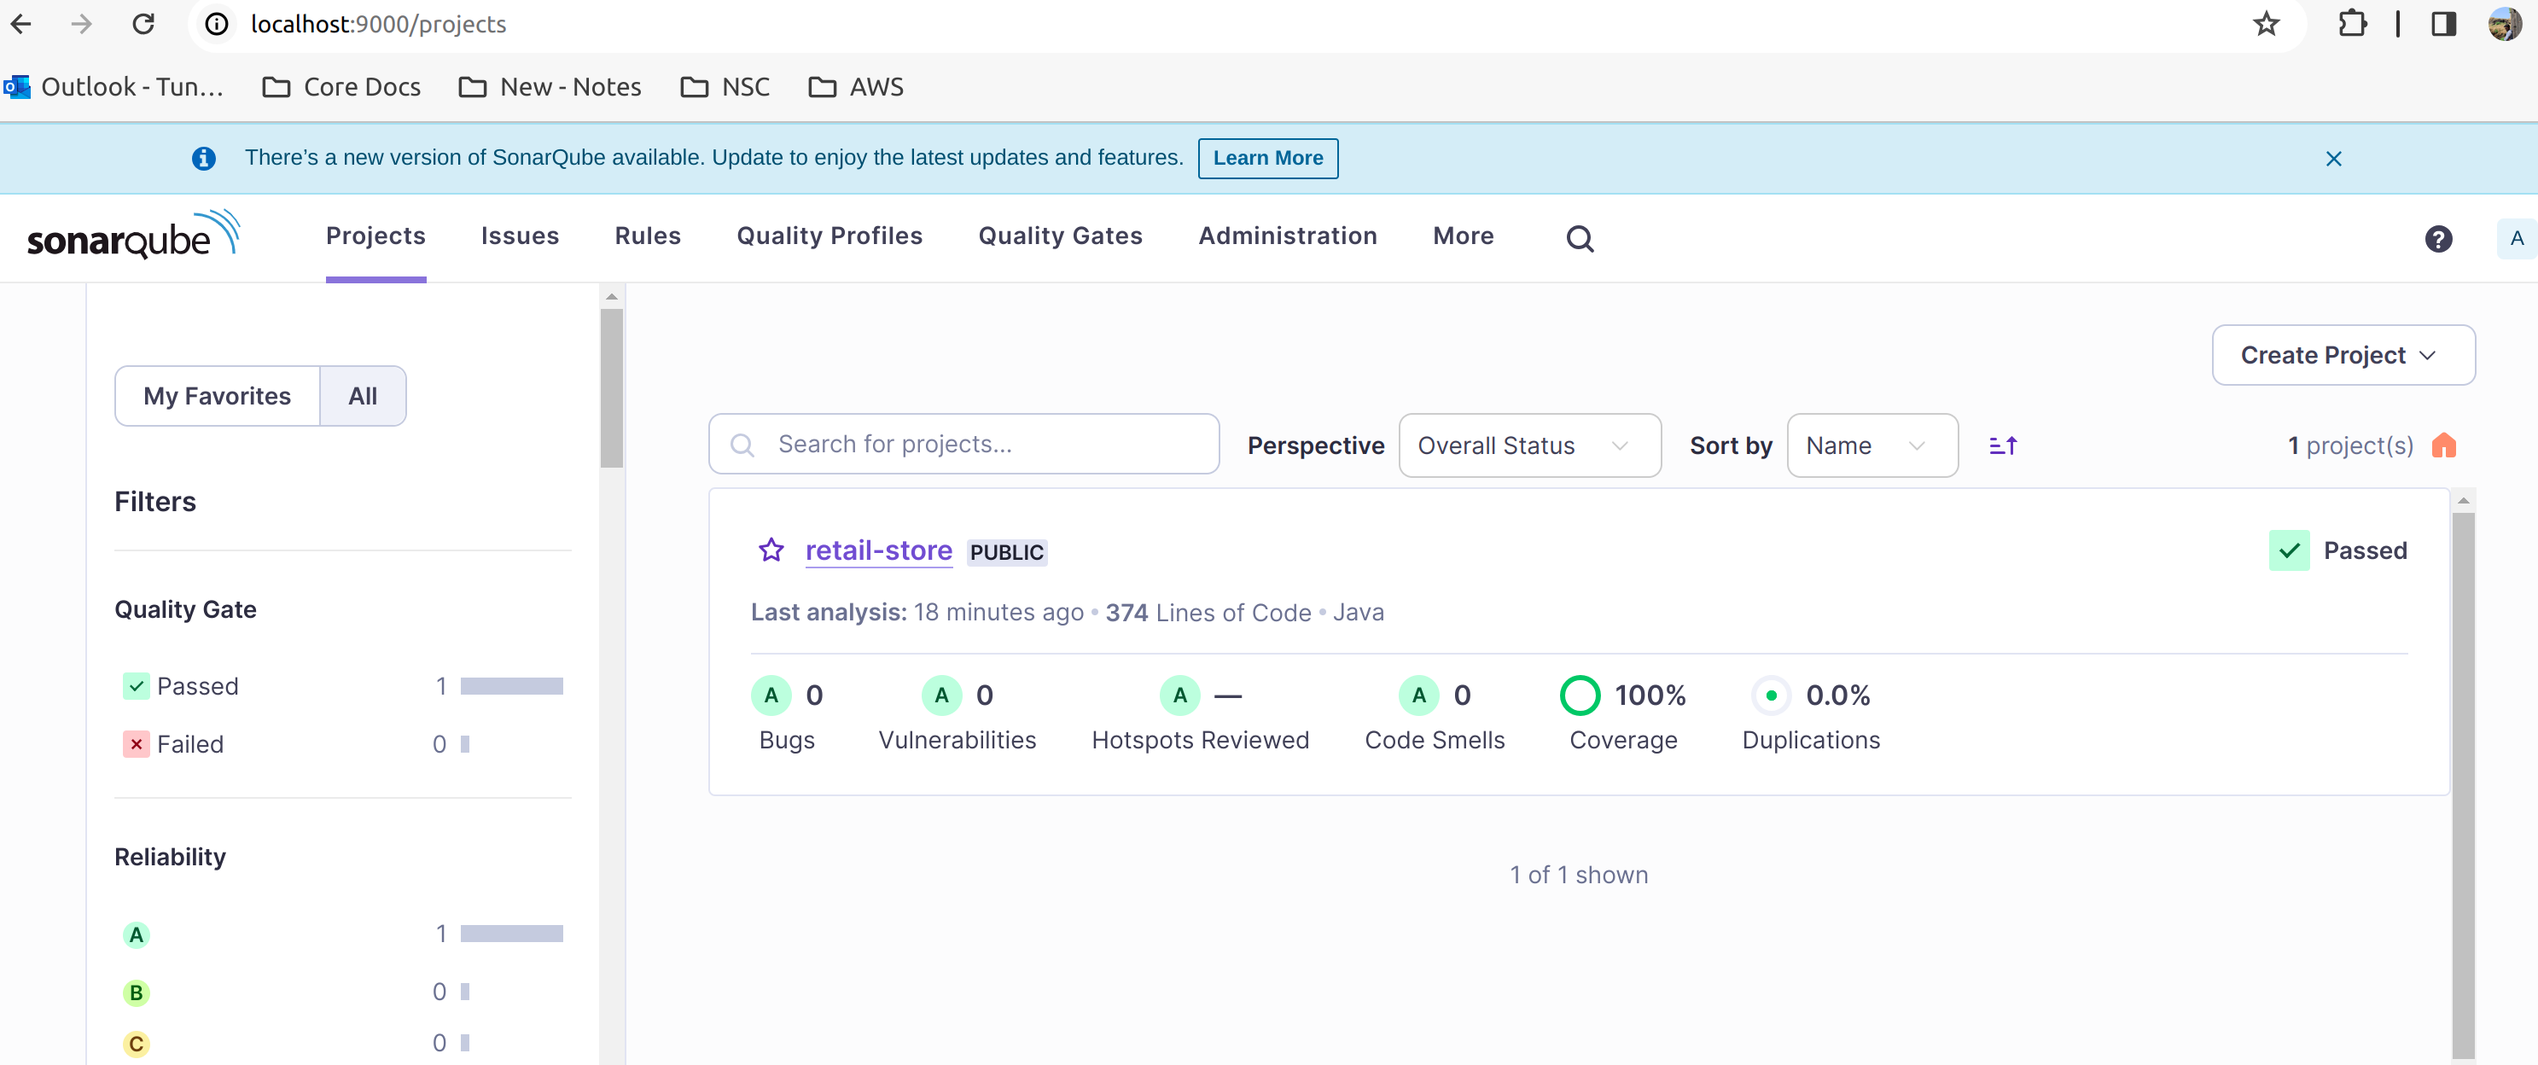
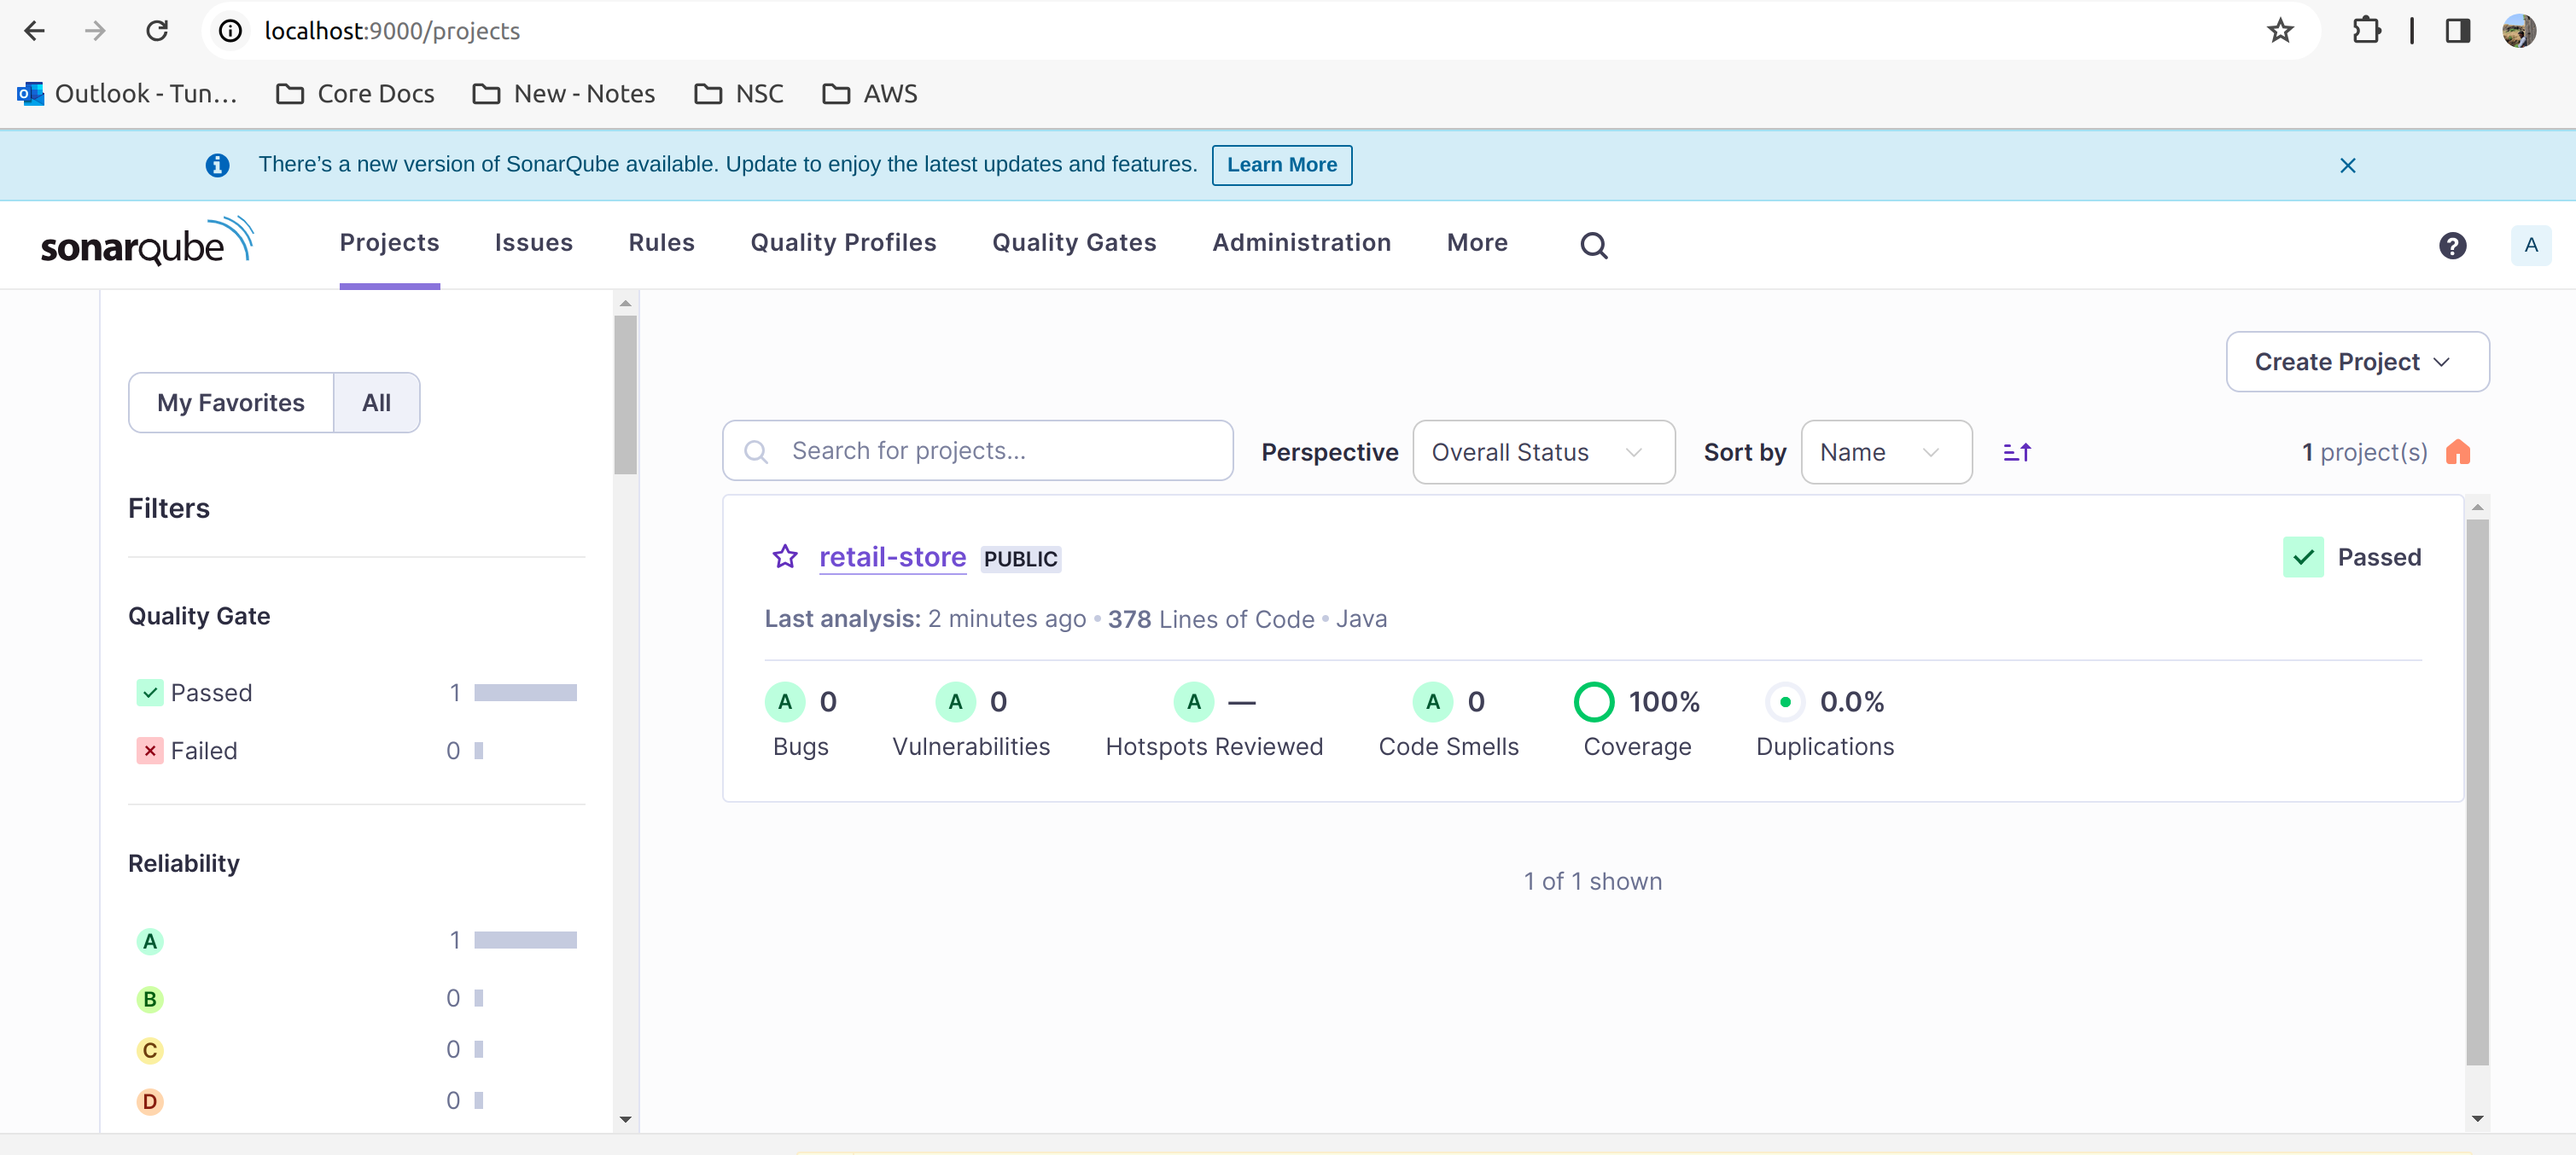
added discount values in response

diff --git a/src/test/java/com/example/retailstore/service/discount/DiscountServiceTest.java b/src/test/java/com/example/retailstore/service/discount/DiscountServiceTest.java
@@ -37,12 +37,12 @@ class DiscountServiceTest {
     @InjectMocks
     DiscountServiceImpl discountService;
 
-    Discount discountForEmp = new Discount(1L, "EMP", "Employee discount", new BigDecimal(30));
-    Discount discountForAffUser = new Discount(2L, "AFF", "Affiliate discount", new BigDecimal(10));
-    Discount discountForLongTermUser = new Discount(3L, "LTC", "Long term customer discount", new BigDecimal(5));
+    Discount discountForEmp = new Discount(1L, "EMP", "Employee discount", BigDecimal.valueOf(30));
+    Discount discountForAffUser = new Discount(2L, "AFF", "Affiliate discount", BigDecimal.valueOf(10));
+    Discount discountForLongTermUser = new Discount(3L, "LTC", "Long term customer discount", BigDecimal.valueOf(5));
     Order order = new Order(4L, new HashSet<>(Arrays.asList(
-            new PurchaseItem(1L, "Mobile", "ELECTRONICS", 1, new BigDecimal(1000)),
-            new PurchaseItem(2L, "Oil", "GROCERY", 1, new BigDecimal(90))
+            new PurchaseItem(1L, "Mobile", "ELECTRONICS", 1, BigDecimal.valueOf(1000)),
+            new PurchaseItem(2L, "Oil", "GROCERY", 1, BigDecimal.valueOf(90))
     )));
     List<ItemType> itemTypeList = Arrays.asList(new ItemType(1L, "ELECTRONICS", "Electronic items", true),
             new ItemType(2L, "GROCERY", "Grocery items", false),
@@ -58,6 +58,9 @@ class DiscountServiceTest {
         when(customerService.findCustomerById(anyLong())).thenReturn(newCustomer);
         DiscountResponse discountResponse = discountService.calculateNetPayable(order);
         assertEquals(BigDecimal.valueOf(1090), discountResponse.totalOrderAmount());
+        assertEquals(BigDecimal.ZERO, discountResponse.discountPercentage());
+        assertEquals(BigDecimal.ZERO, discountResponse.discountPercentageAmount());
+        assertEquals(BigDecimal.valueOf(50), discountResponse.fixedDiscountAmount());
         assertEquals(BigDecimal.valueOf(1040), discountResponse.netPayable());
         verify(customerService, times(1)).findCustomerById(anyLong());
     }
@@ -71,6 +74,9 @@ class DiscountServiceTest {
         when(itemTypeService.findAll()).thenReturn(itemTypeList);
         DiscountResponse discountResponse = discountService.calculateNetPayable(order);
         assertEquals(BigDecimal.valueOf(1090), discountResponse.totalOrderAmount());
+        assertEquals(BigDecimal.valueOf(5), discountResponse.discountPercentage());
+        assertEquals(BigDecimal.valueOf(50), discountResponse.discountPercentageAmount());
+        assertEquals(BigDecimal.valueOf(50), discountResponse.fixedDiscountAmount());
         assertEquals(BigDecimal.valueOf(990), discountResponse.netPayable());
         verify(customerService, times(1)).findCustomerById(anyLong());
         verify(discountRepository, times(1)).findByCode(ServiceConstants.LONG_TERM_CUSTOMER_DISCOUNT_CODE);
@@ -87,6 +93,9 @@ class DiscountServiceTest {
         when(itemTypeService.findAll()).thenReturn(itemTypeList);
         DiscountResponse discountResponse = discountService.calculateNetPayable(order);
         assertEquals(BigDecimal.valueOf(1090), discountResponse.totalOrderAmount());
+        assertEquals(BigDecimal.valueOf(10), discountResponse.discountPercentage());
+        assertEquals(BigDecimal.valueOf(100), discountResponse.discountPercentageAmount());
+        assertEquals(BigDecimal.valueOf(45), discountResponse.fixedDiscountAmount());
         assertEquals(BigDecimal.valueOf(945), discountResponse.netPayable());
         verify(customerService, times(1)).findCustomerById(anyLong());
         verify(discountRepository, times(1)).findByCode(ServiceConstants.AFFILIATE_DISCOUNT_CODE);
@@ -103,6 +112,9 @@ class DiscountServiceTest {
         when(itemTypeService.findAll()).thenReturn(itemTypeList);
         DiscountResponse discountResponse = discountService.calculateNetPayable(order);
         assertEquals(BigDecimal.valueOf(1090), discountResponse.totalOrderAmount());
+        assertEquals(BigDecimal.valueOf(30), discountResponse.discountPercentage());
+        assertEquals(BigDecimal.valueOf(300), discountResponse.discountPercentageAmount());
+        assertEquals(BigDecimal.valueOf(35), discountResponse.fixedDiscountAmount());
         assertEquals(BigDecimal.valueOf(755), discountResponse.netPayable());
         verify(customerService, times(1)).findCustomerById(anyLong());
         verify(discountRepository, times(1)).findByCode(ServiceConstants.EMPLOYEE_DISCOUNT_CODE);
@@ -110,19 +122,22 @@ class DiscountServiceTest {
     }
 
     @Test
-    void GivenUserIsEmployeeOnlyGroceries_CalculateNetPayable_EmployeeDiscountAndFixedDiscountApplies(){
+    void GivenUserIsEmployeeOnlyGroceries_CalculateNetPayable_OnlyFixedDiscountApplies(){
         Customer newCustomer = new Customer(1L, "Surya", "Kumar", "surya@gmail.com", true,
                 LocalDate.now().minusYears(1),
                 null);
-        Order order = new Order(4L, new HashSet<>(Arrays.asList(
-                new PurchaseItem(1, "Sugar", "GROCERY", 1, new BigDecimal(50)),
-                new PurchaseItem(2, "Oil", "GROCERY", 1, new BigDecimal(90))
+        Order order = new Order(1L, new HashSet<>(Arrays.asList(
+                new PurchaseItem(1, "Sugar", "GROCERY", 1, BigDecimal.valueOf(50)),
+                new PurchaseItem(2, "Oil", "GROCERY", 1, BigDecimal.valueOf(90))
         )));
         when(customerService.findCustomerById(anyLong())).thenReturn(newCustomer);
         when(discountRepository.findByCode(ServiceConstants.EMPLOYEE_DISCOUNT_CODE)).thenReturn(discountForEmp);
         when(itemTypeService.findAll()).thenReturn(itemTypeList);
         DiscountResponse discountResponse = discountService.calculateNetPayable(order);
         assertEquals(BigDecimal.valueOf(140), discountResponse.totalOrderAmount());
+        assertEquals(BigDecimal.valueOf(30), discountResponse.discountPercentage());
+        assertEquals(BigDecimal.ZERO, discountResponse.discountPercentageAmount());
+        assertEquals(BigDecimal.valueOf(5), discountResponse.fixedDiscountAmount());
         assertEquals(BigDecimal.valueOf(135), discountResponse.netPayable());
         verify(customerService, times(1)).findCustomerById(anyLong());
         verify(discountRepository, times(1)).findByCode(ServiceConstants.EMPLOYEE_DISCOUNT_CODE);
@@ -140,6 +155,9 @@ class DiscountServiceTest {
         when(itemTypeService.findAll()).thenReturn(itemTypeList);
         DiscountResponse discountResponse = discountService.calculateNetPayable(order);
         assertEquals(BigDecimal.valueOf(1090), discountResponse.totalOrderAmount());
+        assertEquals(BigDecimal.valueOf(30), discountResponse.discountPercentage());
+        assertEquals(BigDecimal.valueOf(300), discountResponse.discountPercentageAmount());
+        assertEquals(BigDecimal.valueOf(35), discountResponse.fixedDiscountAmount());
         assertEquals(BigDecimal.valueOf(755), discountResponse.netPayable());
         verify(customerService, times(1)).findCustomerById(anyLong());
         verify(discountRepository, times(1)).findByCode(ServiceConstants.AFFILIATE_DISCOUNT_CODE);
@@ -153,13 +171,16 @@ class DiscountServiceTest {
                 LocalDate.now().minusYears(1),
                 null);
         Order order = new Order(4L, new HashSet<>(List.of(
-                new PurchaseItem(1, "Ball", "TOYS", 1, new BigDecimal(50))
+                new PurchaseItem(1, "Ball", "TOYS", 1, BigDecimal.valueOf(50))
         )));
         when(customerService.findCustomerById(anyLong())).thenReturn(newCustomer);
         when(discountRepository.findByCode(ServiceConstants.EMPLOYEE_DISCOUNT_CODE)).thenReturn(discountForEmp);
         when(itemTypeService.findAll()).thenReturn(itemTypeList);
         DiscountResponse discountResponse = discountService.calculateNetPayable(order);
         assertEquals(BigDecimal.valueOf(50), discountResponse.totalOrderAmount());
+        assertEquals(BigDecimal.valueOf(30), discountResponse.discountPercentage());
+        assertEquals(BigDecimal.valueOf(15), discountResponse.discountPercentageAmount());
+        assertEquals(BigDecimal.ZERO, discountResponse.fixedDiscountAmount());
         assertEquals(BigDecimal.valueOf(35), discountResponse.netPayable());
         verify(customerService, times(1)).findCustomerById(anyLong());
         verify(discountRepository, times(1)).findByCode(ServiceConstants.EMPLOYEE_DISCOUNT_CODE);
@@ -172,13 +193,16 @@ class DiscountServiceTest {
                 LocalDate.now().minusYears(1),
                 null);
         Order order = new Order(4L, new HashSet<>(List.of(
-                new PurchaseItem(1, "Sugar", "GROCERY", 1, new BigDecimal(50))
+                new PurchaseItem(1, "Sugar", "GROCERY", 1, BigDecimal.valueOf(50))
         )));
         when(customerService.findCustomerById(anyLong())).thenReturn(newCustomer);
         when(discountRepository.findByCode(ServiceConstants.EMPLOYEE_DISCOUNT_CODE)).thenReturn(discountForEmp);
         when(itemTypeService.findAll()).thenReturn(itemTypeList);
         DiscountResponse discountResponse = discountService.calculateNetPayable(order);
         assertEquals(BigDecimal.valueOf(50), discountResponse.totalOrderAmount());
+        assertEquals(BigDecimal.valueOf(30), discountResponse.discountPercentage());
+        assertEquals(BigDecimal.ZERO, discountResponse.discountPercentageAmount());
+        assertEquals(BigDecimal.ZERO, discountResponse.fixedDiscountAmount());
         assertEquals(BigDecimal.valueOf(50), discountResponse.netPayable());
         verify(customerService, times(1)).findCustomerById(anyLong());
         verify(discountRepository, times(1)).findByCode(ServiceConstants.EMPLOYEE_DISCOUNT_CODE);

diff --git a/src/test/java/com/example/retailstore/controller/CartNetPayableControllerTest.java b/src/test/java/com/example/retailstore/controller/CartNetPayableControllerTest.java
@@ -40,10 +40,10 @@ class CartNetPayableControllerTest {
     @Test
     void findCardNetPayableTest_Success(){
         Order order = new Order(4L, new HashSet<>(Arrays.asList(
-                new PurchaseItem(1, "Mobile", "ELECTRONICS", 1, new BigDecimal(1000)),
-                new PurchaseItem(2, "Oil", "GROCERY", 1, new BigDecimal(90))
+                new PurchaseItem(1, "Mobile", "ELECTRONICS", 1, BigDecimal.valueOf(1000)),
+                new PurchaseItem(2, "Oil", "GROCERY", 1, BigDecimal.valueOf(90))
         )));
-        DiscountResponse mockResponse = new DiscountResponse(new BigDecimal(1090), new BigDecimal(1040));
+        DiscountResponse mockResponse = new DiscountResponse(BigDecimal.valueOf(1090), BigDecimal.ZERO, BigDecimal.ZERO, BigDecimal.valueOf(50), BigDecimal.valueOf(1040));
         when(discountService.calculateNetPayable(order)).thenReturn(mockResponse);
         DiscountResponse netPayable = cartNetPayableController.calculateNetPayable(order);
         assertEquals(mockResponse.totalOrderAmount(), netPayable.totalOrderAmount());
@@ -53,8 +53,8 @@ class CartNetPayableControllerTest {
     @Test
     void findCardNetPayableTest_Success_Ok() throws Exception {
         Order order = new Order(4L, new HashSet<>(Arrays.asList(
-                new PurchaseItem(1, "Mobile", "ELECTRONICS", 1, new BigDecimal(1000)),
-                new PurchaseItem(2, "Oil", "GROCERY", 1, new BigDecimal(90))
+                new PurchaseItem(1, "Mobile", "ELECTRONICS", 1, BigDecimal.valueOf(1000)),
+                new PurchaseItem(2, "Oil", "GROCERY", 1, BigDecimal.valueOf(90))
         )));
 
         mvc = MockMvcBuilders.standaloneSetup(cartNetPayableController)
@@ -68,8 +68,8 @@ class CartNetPayableControllerTest {
     @Test
     void givenCustomerIdNull_FindCardNetPayableTest_Failed_BadRequest() throws Exception {
         Order order = new Order(null, new HashSet<>(Arrays.asList(
-                new PurchaseItem(1, "Mobile", "ELECTRONICS", 1, new BigDecimal(1000)),
-                new PurchaseItem(2, "Oil", "GROCERY", 1, new BigDecimal(90))
+                new PurchaseItem(1, "Mobile", "ELECTRONICS", 1, BigDecimal.valueOf(1000)),
+                new PurchaseItem(2, "Oil", "GROCERY", 1, BigDecimal.valueOf(90))
         )));
         String errorResponse = """
                 {"validationErrors":[{"errorMessage":"Customer ID cannot be null","target":"customerId"}],"error":"Validation Failed"}""";

diff --git a/src/main/java/com/example/retailstore/service/init/InitService.java b/src/main/java/com/example/retailstore/service/init/InitService.java
@@ -34,9 +34,9 @@ public class InitService {
     @PostConstruct
     public void init(){
         log.info("Initiating the data...");
-        discountRepository.saveAll(Arrays.asList(new Discount(1L, "EMP", "Employee discount", new BigDecimal(30)),
-                new Discount(2L, "AFF", "Affiliate discount", new BigDecimal(10)),
-                new Discount(3L, "LTC", "Long term customer discount", new BigDecimal(5))));
+        discountRepository.saveAll(Arrays.asList(new Discount(1L, "EMP", "Employee discount", BigDecimal.valueOf(30)),
+                new Discount(2L, "AFF", "Affiliate discount", BigDecimal.valueOf(10)),
+                new Discount(3L, "LTC", "Long term customer discount", BigDecimal.valueOf(5))));
         itemTypeRepository.saveAll(Arrays.asList(new ItemType(1L, "ELECTRONICS", "Electronic items", true),
                 new ItemType(2L, "GROCERY", "Grocery items", false),
                 new ItemType(3L, "TOYS", "Baby toys", true),

diff --git a/src/main/java/com/example/retailstore/service/ServiceConstants.java b/src/main/java/com/example/retailstore/service/ServiceConstants.java
@@ -10,8 +10,8 @@ public final class ServiceConstants {
     public static final String EMPLOYEE_DISCOUNT_CODE = "EMP";
     public static final String AFFILIATE_DISCOUNT_CODE = "AFF";
     public static final String LONG_TERM_CUSTOMER_DISCOUNT_CODE = "LTC";
-    public static final BigDecimal TARGET_VALUE = new BigDecimal(100);
-    public static final BigDecimal FIXED_DISCOUNT_VALUE = new BigDecimal(5);
+    public static final BigDecimal TARGET_VALUE = BigDecimal.valueOf(100);
+    public static final BigDecimal FIXED_DISCOUNT_VALUE = BigDecimal.valueOf(5);
     public static final long TWO_YEARS = 2L;
 
 }

diff --git a/src/main/java/com/example/retailstore/service/discount/DiscountServiceImpl.java b/src/main/java/com/example/retailstore/service/discount/DiscountServiceImpl.java
@@ -52,7 +52,8 @@ public class DiscountServiceImpl implements DiscountService {
         log.debug("Fixed discount amount for order {}: {}", order.customerId(), fixedDiscountAmount);
         BigDecimal netPayable = totalAfterPercentageDiscount.subtract(fixedDiscountAmount);
         log.debug("Net payable amount for order {}: {}", order.customerId(), netPayable);
-        return new DiscountResponse(totalOrderAmount, netPayable);
+        return new DiscountResponse(totalOrderAmount, discountPercentage, percentageDiscountAmount,
+                fixedDiscountAmount, netPayable);
     }
 
     /**

diff --git a/src/main/java/com/example/retailstore/dto/DiscountResponse.java b/src/main/java/com/example/retailstore/dto/DiscountResponse.java
@@ -3,5 +3,8 @@ package com.example.retailstore.dto;
 import java.math.BigDecimal;
 
 public record DiscountResponse(BigDecimal totalOrderAmount,
+                               BigDecimal discountPercentage,
+                               BigDecimal discountPercentageAmount,
+                               BigDecimal fixedDiscountAmount,
                                BigDecimal netPayable) {
 }
